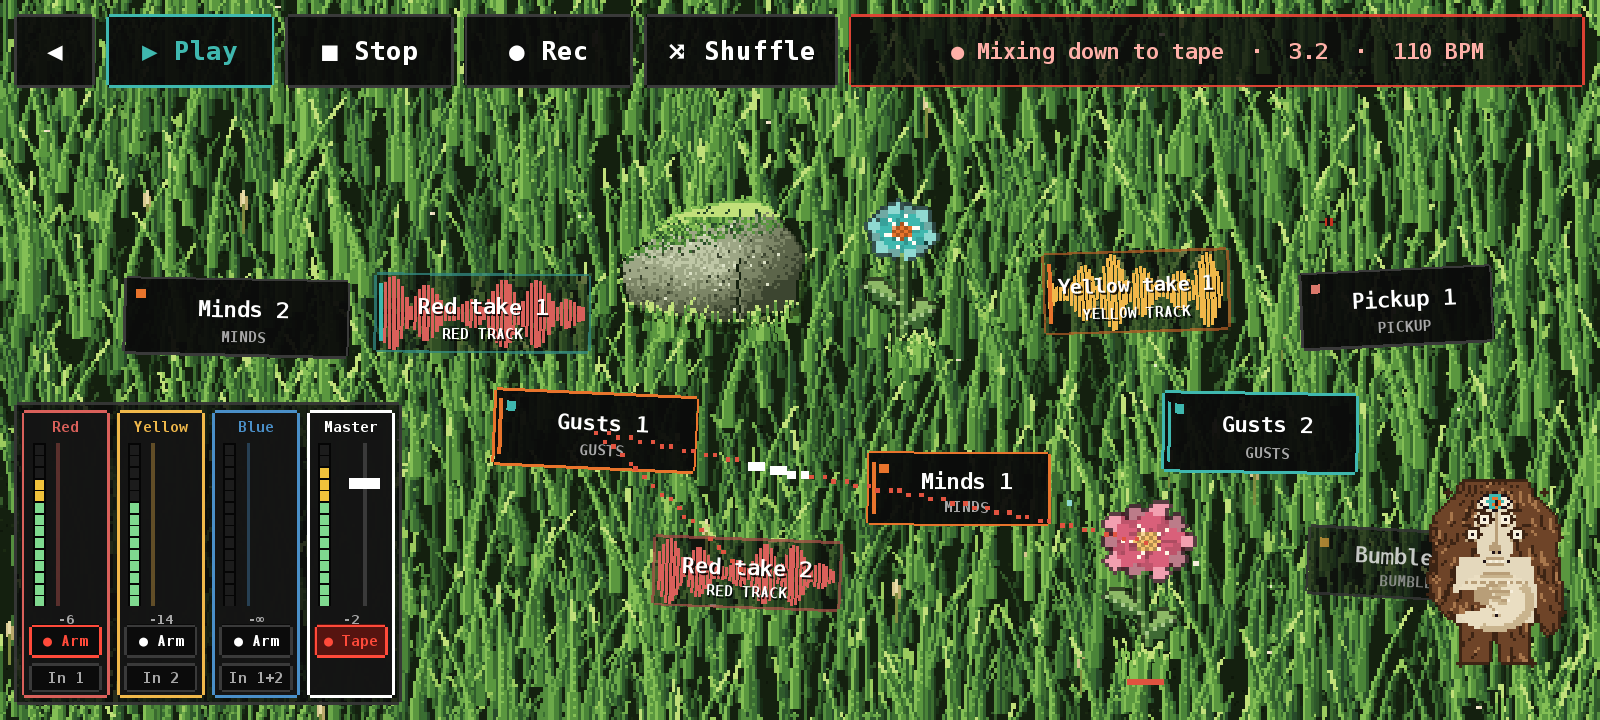
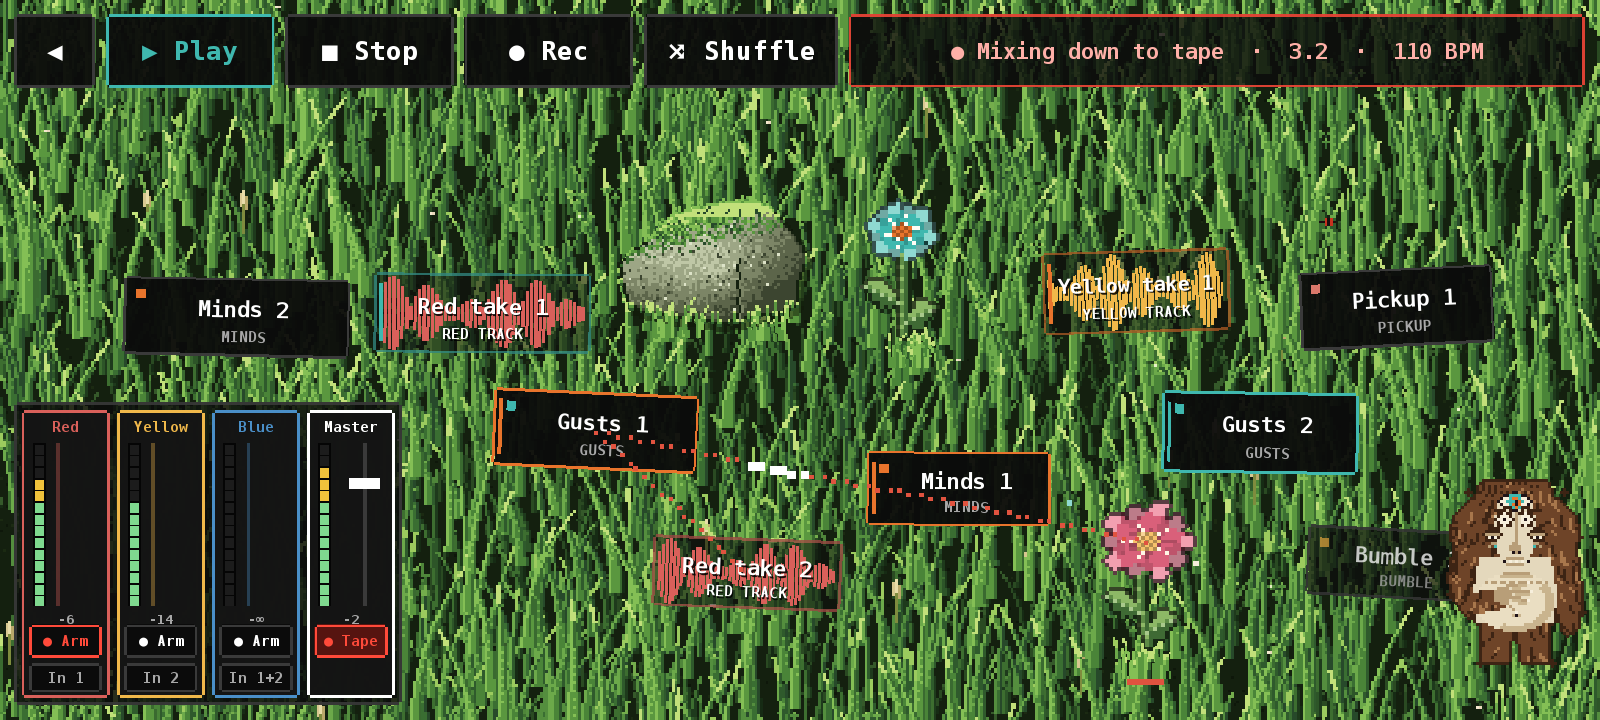
Creature concept: five eyes, three emotions (calm third eye, alarmed upper pair, sorrowful lower pair)
Claude-Session: https://claude.ai/code/session_01JpLHzsYAvEKzmccr94t7N9

Changed region(s): [[0.875, 0.6417, 1.0, 0.9472]]

diff --git a/android/play/concepts/make_creature.py b/android/play/concepts/make_creature.py
@@ -46,12 +46,22 @@ ell(24, 9.5, 5.5, 3.1, 'k'); ell(24, 9.5, 4.6, 2.3, 'W'); ell(24, 9.5, 2.5, 2.5,
 for (x, y) in ((23, 8), (24, 8), (25, 9), (25, 10), (24, 11), (23, 10)): put(x, y, 'O')
 put(24, 9, 'k'); put(24, 10, 'k')
 for x in (19, 21, 27, 29): put(x, 6, 'd')
-# --- four sunken eyes: deep dark sockets, small round whites, pinprick pupils
-for (ex, ey) in ((20.5, 15.5), (27.5, 15.5), (16.5, 20.5), (31.5, 20.5)):
-    ell(ex, ey, 3.0, 2.6, 'd'); ell(ex, ey, 1.8, 1.5, 'W'); put(int(ex), int(ey), 'k')
-    put(int(ex) - 2, int(ey) + 2, 's'); put(int(ex) + 1, int(ey) + 2, 's')
-# heavy brows
-line(17, 12, 22, 13, 'd'); line(26, 13, 31, 12, 'd'); line(13, 17, 18, 18, 'd'); line(30, 18, 35, 17, 'd')
+# --- five eyes, three emotions
+# (1) the third eye is calm and knowing: the swirl stays centred, lids relaxed (drawn above)
+# (2) the upper pair is ALARMED: wide-open whites, pinprick pupils, brows hiked up and pinched together
+for (ex, ey) in ((20.5, 15.5), (27.5, 15.5)):
+    ell(ex, ey, 3.1, 2.8, 'd'); ell(ex, ey, 2.3, 2.0, 'W'); put(int(ex), int(ey), 'k')
+line(17, 12, 22, 11, 'd'); line(26, 11, 31, 12, 'd')          # brows raised toward the middle
+put(22, 12, 'd'); put(26, 12, 'd')
+# (3) the lower pair is SORROWFUL: heavy upper lids half shut, pupils sunk low, corners drooping, bags beneath
+for (ex, ey, side) in ((16.5, 20.5, -1), (31.5, 20.5, 1)):
+    ell(ex, ey, 3.0, 2.4, 'd'); ell(ex, ey + 0.5, 2.0, 1.2, 'W')
+    for x in range(int(ex) - 2, int(ex) + 3): put(x, int(ey) - 1, 'd'); put(x, int(ey), 's')   # heavy lid
+    put(int(ex), int(ey) + 1, 'k')                                                          # pupil looking down
+    put(int(ex) + side * 2, int(ey) + 2, 'd'); put(int(ex) + side * 3, int(ey) + 3, 'd')   # drooping outer corner
+    put(int(ex) - side, int(ey) + 3, 's'); put(int(ex), int(ey) + 3, 's'); put(int(ex) + side, int(ey) + 4, 's')  # bag
+    put(int(ex) - side * 1, int(ey) + 4, 'A')                                                # a single tear
+line(13, 16, 18, 18, 'd'); line(30, 18, 35, 16, 'd')          # brows sloping down at the outer ends
 # --- the long nose: a shaded ridge and a heavy bulb
 line(24, 13, 24, 24, 's'); line(25, 14, 25, 23, 'S'); ell(24, 25, 2.6, 1.6, 's'); put(23, 26, 'k'); put(25, 26, 'k')
 # --- the grimace: thin lips, clenched teeth
